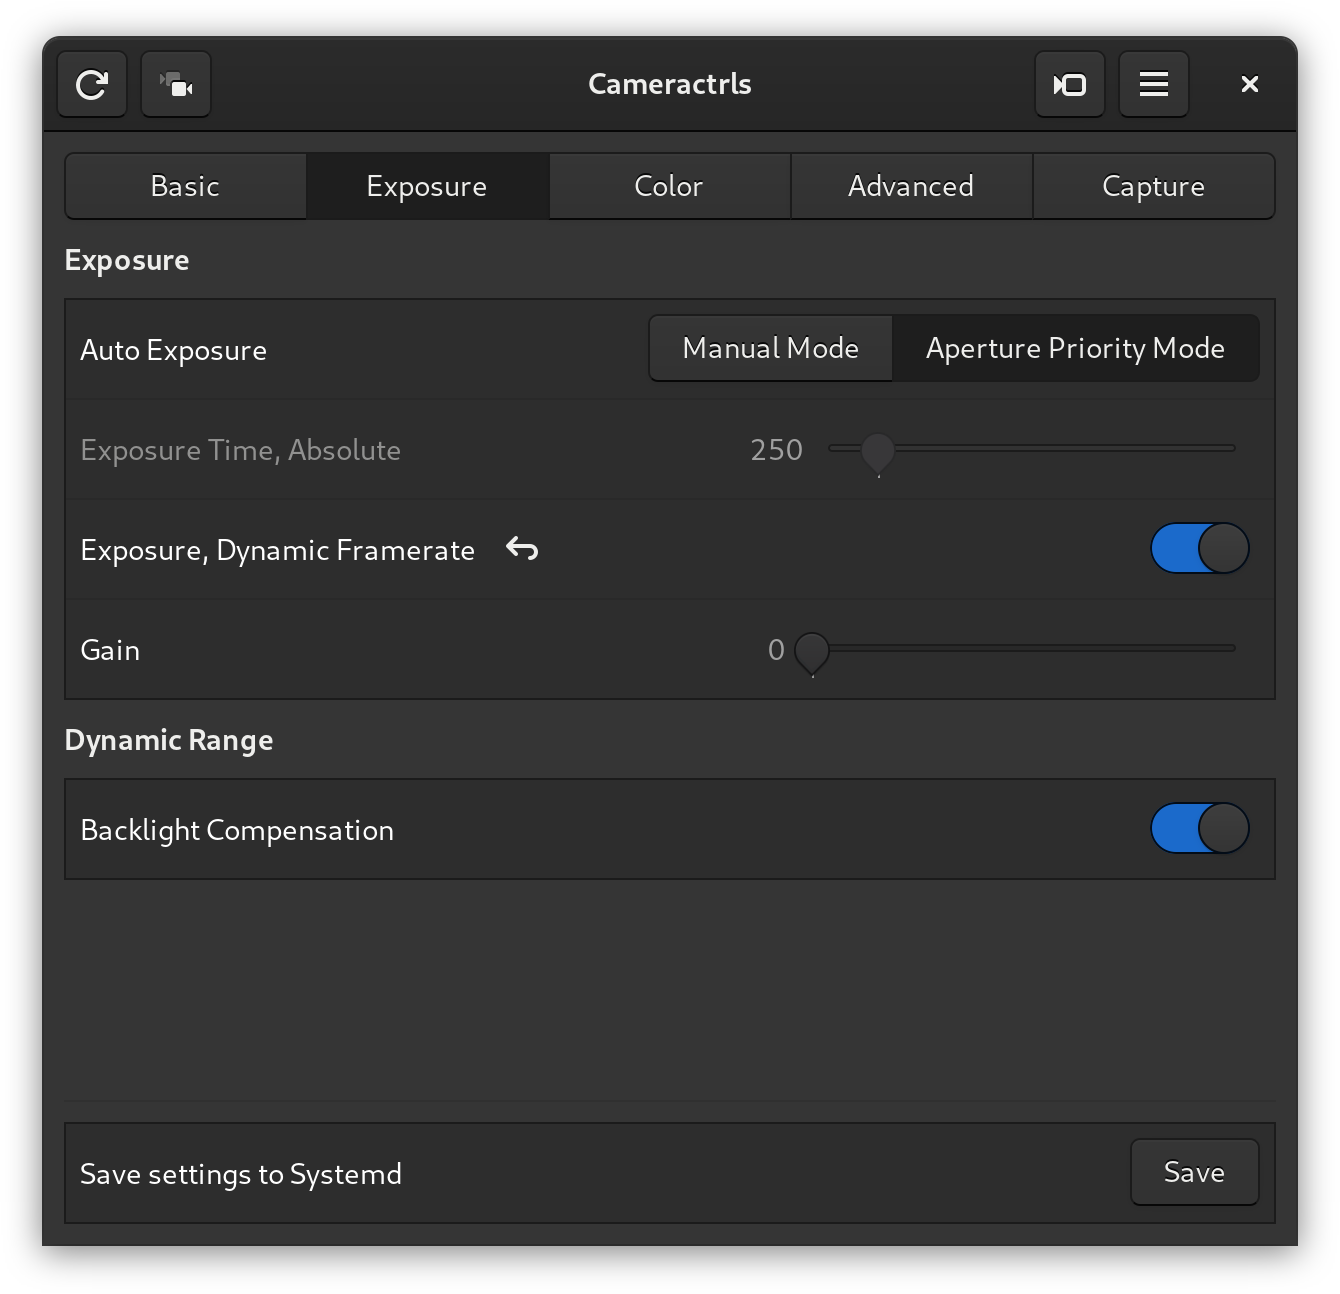
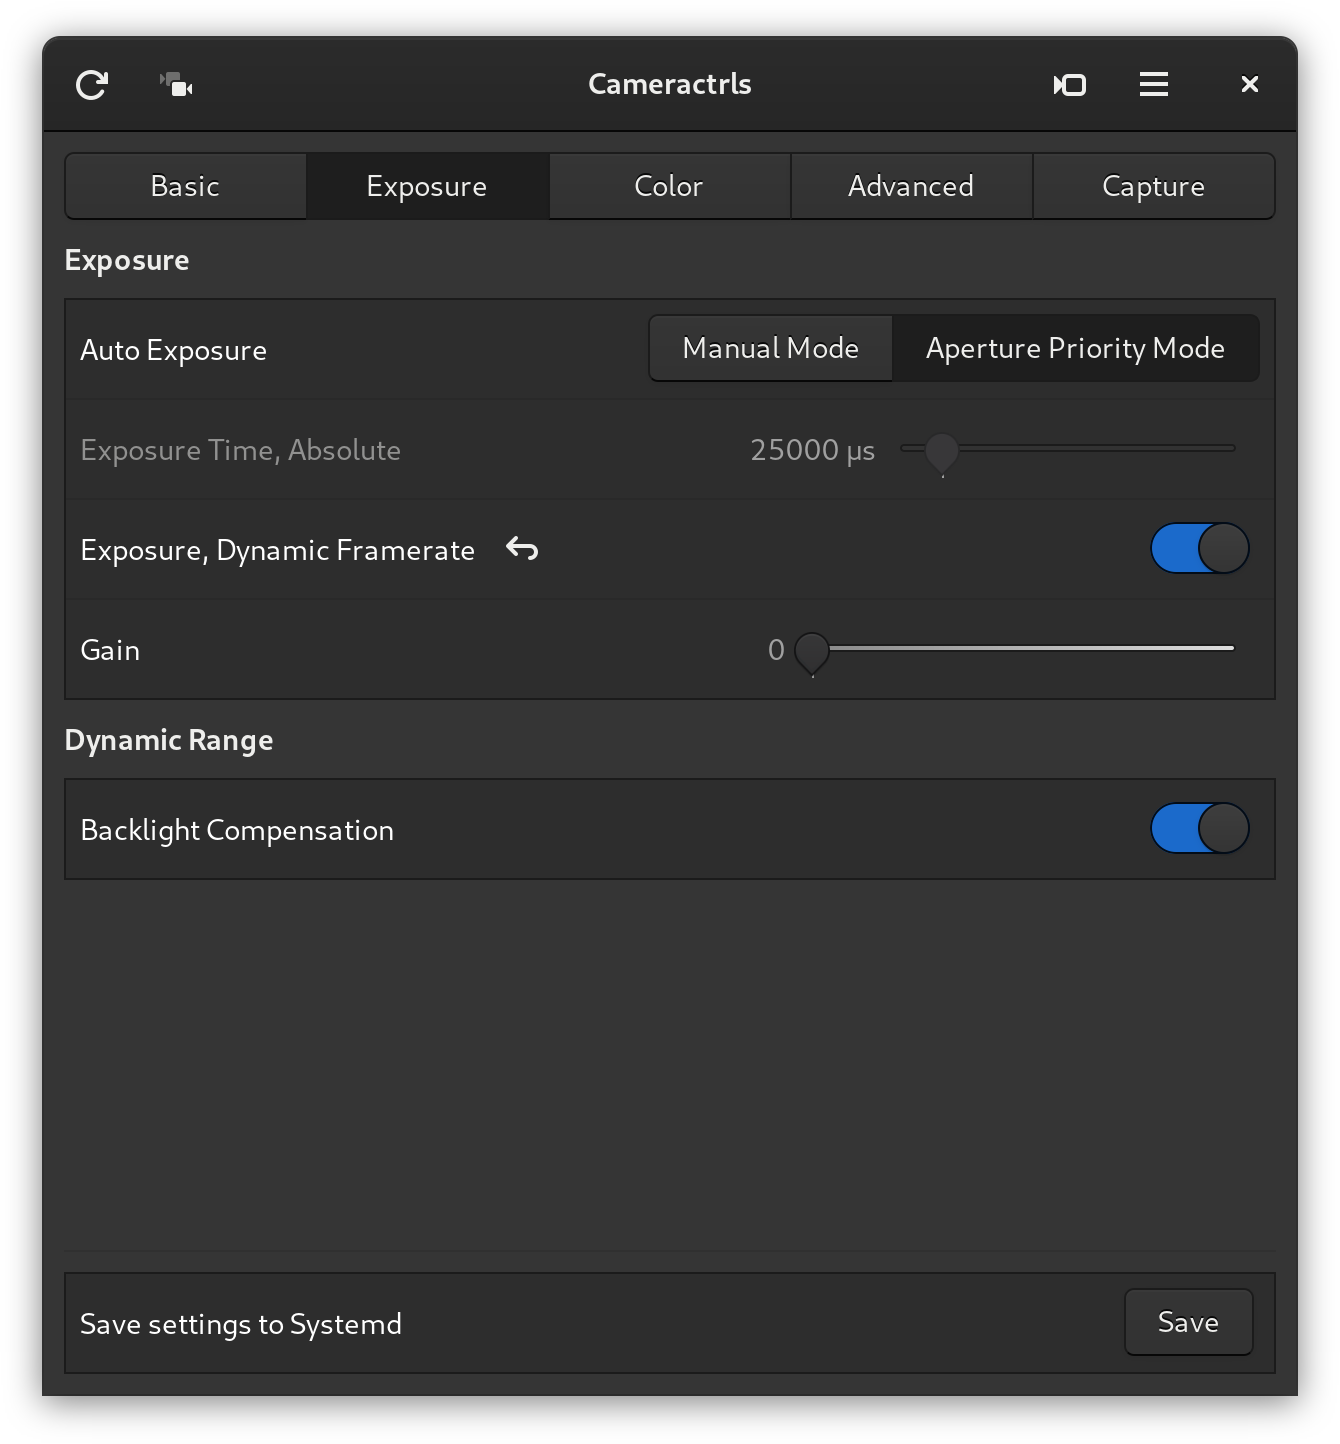
v0.5.5

diff --git a/cameractrls.py b/cameractrls.py
@@ -5,7 +5,7 @@ from fcntl import ioctl
 from threading import Thread
 
 ghurl = 'https://github.com/soyersoyer/cameractrls'
-version = 'v0.5.4'
+version = 'v0.5.5'
 
 
 v4ldirs = {

diff --git a/CHANGELOG.md b/CHANGELOG.md
@@ -1,5 +1,18 @@
 # Changelog
 
+## [0.5.5] - 2023-06-10
+
+### Added
+ - Color presets
+ - Listen for controls changes from other processes
+ - 'default' or percent values can also be set
+ - Improved error reporting
+ - Exposure time now in µs in the GTK GUIs
+ - Exposure time, Gain scales has dark-to-light background
+
+### Changed
+ - Removed header buttons border
+
 ## [0.5.4] - 2023-05-21
 
 ### Changed
